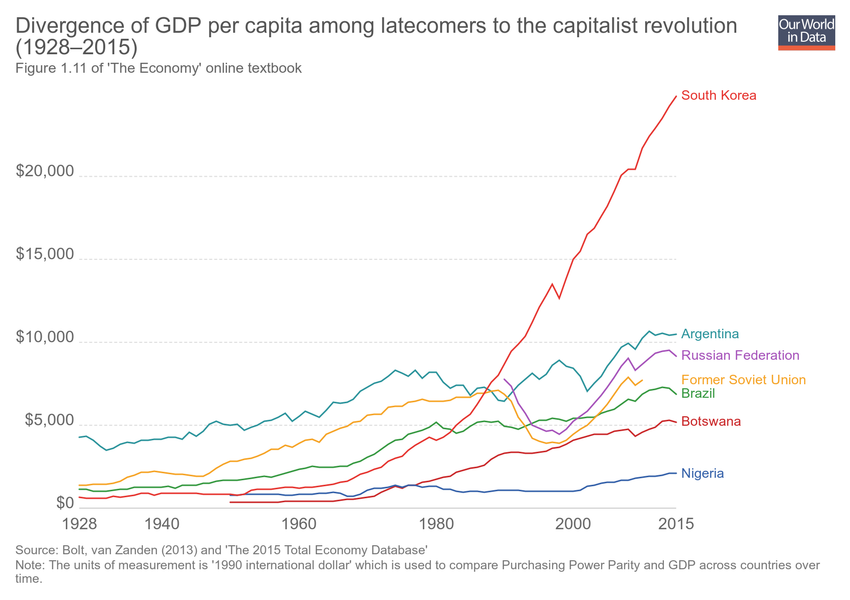
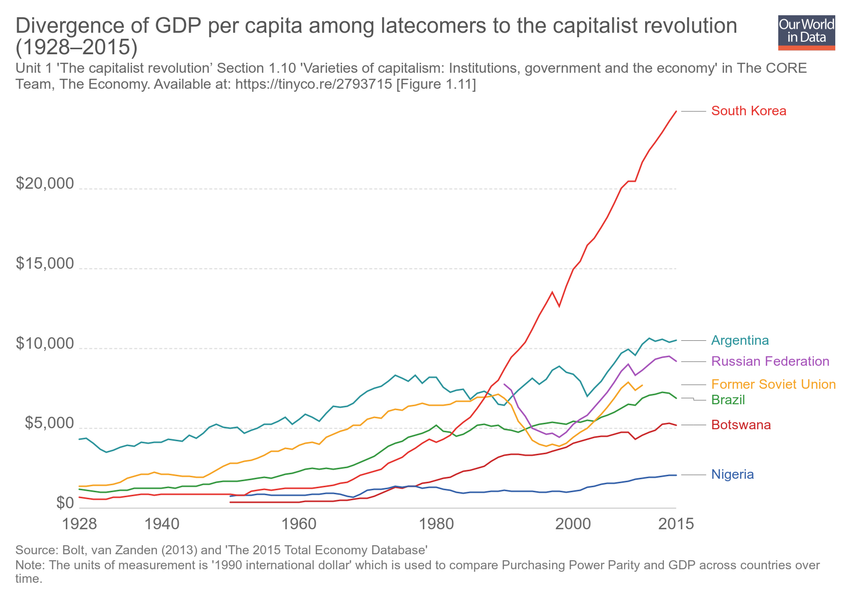
Updating chart divergence-of-gdp-per-capita-among-latecomers-to-the-capitalist-revolution-19282015

diff --git a/grapher/divergence-of-gdp-per-capita-among-latecomers-to-the-capitalist-revolution-19282015.html b/grapher/divergence-of-gdp-per-capita-among-latecomers-to-the-capitalist-revolution-19282015.html
@@ -1,4 +1,4 @@
-<!doctype html><html><head><meta name="viewport" content="width=device-width, initial-scale=1" /><title>Divergence of GDP per capita among latecomers to the capitalist revolution (1928–2015) - Our World in Data</title><meta name="description" content="Figure 1.11 of 'The Economy' online textbook" /><link rel="canonical" href="https://ourworldindata.org/grapher/divergence-of-gdp-per-capita-among-latecomers-to-the-capitalist-revolution-19282015" /><meta property="fb:app_id" content="1149943818390250" /><meta property="og:url" content="https://ourworldindata.org/grapher/divergence-of-gdp-per-capita-among-latecomers-to-the-capitalist-revolution-19282015" /><meta property="og:title" content="Divergence of GDP per capita among latecomers to the capitalist revolution (1928–2015)" /><meta property="og:description" content="Figure 1.11 of 'The Economy' online textbook" /><meta property="og:image" content="https://ourworldindata.org/grapher/exports/divergence-of-gdp-per-capita-among-latecomers-to-the-capitalist-revolution-19282015.png?v=6" /><meta property="og:image:width" content="850" /><meta property="og:image:height" content="600" /><meta property="og:site_name" content="Our World in Data" /><meta name="twitter:card" content="summary_large_image" /><meta name="twitter:site" content="@OurWorldInData" /><meta name="twitter:creator" content="@OurWorldInData" /><meta name="twitter:title" content="Divergence of GDP per capita among latecomers to the capitalist revolution (1928–2015)" /><meta name="twitter:description" content="Figure 1.11 of 'The Economy' online textbook" /><meta name="twitter:image" content="https://ourworldindata.org/grapher/exports/divergence-of-gdp-per-capita-among-latecomers-to-the-capitalist-revolution-19282015.png?v=6" /><style>
+<!doctype html><html><head><meta name="viewport" content="width=device-width, initial-scale=1" /><title>Divergence of GDP per capita among latecomers to the capitalist revolution (1928–2015) - Our World in Data</title><meta name="description" content="Unit 1 'The capitalist revolution’ Section 1.10 'Varieties of capitalism: Institutions, government and the economy' in The CORE Team, The Economy. Available at: https://tinyco.re/2793715 [Figure 1.11]" /><link rel="canonical" href="https://ourworldindata.org/grapher/divergence-of-gdp-per-capita-among-latecomers-to-the-capitalist-revolution-19282015" /><meta property="fb:app_id" content="1149943818390250" /><meta property="og:url" content="https://ourworldindata.org/grapher/divergence-of-gdp-per-capita-among-latecomers-to-the-capitalist-revolution-19282015" /><meta property="og:title" content="Divergence of GDP per capita among latecomers to the capitalist revolution (1928–2015)" /><meta property="og:description" content="Unit 1 'The capitalist revolution’ Section 1.10 'Varieties of capitalism: Institutions, government and the economy' in The CORE Team, The Economy. Available at: https://tinyco.re/2793715 [Figure 1.11]" /><meta property="og:image" content="https://ourworldindata.org/grapher/exports/divergence-of-gdp-per-capita-among-latecomers-to-the-capitalist-revolution-19282015.png?v=7" /><meta property="og:image:width" content="850" /><meta property="og:image:height" content="600" /><meta property="og:site_name" content="Our World in Data" /><meta name="twitter:card" content="summary_large_image" /><meta name="twitter:site" content="@OurWorldInData" /><meta name="twitter:creator" content="@OurWorldInData" /><meta name="twitter:title" content="Divergence of GDP per capita among latecomers to the capitalist revolution (1928–2015)" /><meta name="twitter:description" content="Unit 1 'The capitalist revolution’ Section 1.10 'Varieties of capitalism: Institutions, government and the economy' in The CORE Team, The Economy. Available at: https://tinyco.re/2793715 [Figure 1.11]" /><meta name="twitter:image" content="https://ourworldindata.org/grapher/exports/divergence-of-gdp-per-capita-among-latecomers-to-the-capitalist-revolution-19282015.png?v=7" /><style>
         html, body {
             height: 100%;
             margin: 0;
@@ -20,8 +20,8 @@
         }
     </style><noscript><style>
                     figure { display: none !important; }
-                </style></noscript><link rel="stylesheet" href="https://ourworldindata.org/grapher/assets/commons.bundle.397229a8467cf53bfc99.css" /><link rel="preload" href="/grapher/data/variables/97955.json?v=6" as="fetch" crossorigin /></head><body class="singleChart"><figure data-grapher-src="/grapher/divergence-of-gdp-per-capita-among-latecomers-to-the-capitalist-revolution-19282015"></figure><noscript id="fallback"><img src="/grapher/exports/divergence-of-gdp-per-capita-among-latecomers-to-the-capitalist-revolution-19282015.svg" /><p>Interactive visualization requires JavaScript</p></noscript><script src="https://cdn.polyfill.io/v2/polyfill.min.js?features=es6,fetch"></script><script src="https://ourworldindata.org/grapher/assets/commons.bundle.397229a8467cf53bfc99.js"></script><script src="https://ourworldindata.org/grapher/assets/charts.bundle.397229a8467cf53bfc99.js"></script><script>
-        var jsonConfig = {"id":3018,"map":{"projection":"World","targetYear":2015,"variableId":97955,"colorSchemeLabels":[],"colorSchemeValues":[],"customNumericColors":[],"customCategoryColors":{},"customCategoryLabels":{},"customHiddenCategories":{}},"tab":"chart","note":"The units of measurement is '1990 international dollar' which is used to compare Purchasing Power Parity and GDP across countries over time.","slug":"divergence-of-gdp-per-capita-among-latecomers-to-the-capitalist-revolution-19282015","type":"LineChart","title":"Divergence of GDP per capita among latecomers to the capitalist revolution (1928–2015)","xAxis":{"scaleType":"linear"},"yAxis":{"min":0,"scaleType":"linear"},"version":6,"subtitle":"Figure 1.11 of 'The Economy' online textbook","hasMapTab":true,"stackMode":"absolute","dimensions":[{"display":{},"property":"y","variableId":97955}],"hasChartTab":true,"isPublished":true,"selectedData":[{"index":0,"entityId":21},{"index":0,"entityId":36},{"index":0,"entityId":37},{"index":0,"entityId":3911},{"index":0,"entityId":103},{"index":0,"entityId":38099},{"index":0,"entityId":127}],"internalNotes":"core-econ.org","addCountryMode":"add-country"};
+                </style></noscript><link rel="stylesheet" href="https://ourworldindata.org/grapher/assets/commons.bundle.397229a8467cf53bfc99.css" /><link rel="preload" href="/grapher/data/variables/97955.json?v=7" as="fetch" crossorigin /></head><body class="singleChart"><figure data-grapher-src="/grapher/divergence-of-gdp-per-capita-among-latecomers-to-the-capitalist-revolution-19282015"></figure><noscript id="fallback"><img src="/grapher/exports/divergence-of-gdp-per-capita-among-latecomers-to-the-capitalist-revolution-19282015.svg" /><p>Interactive visualization requires JavaScript</p></noscript><script src="https://cdn.polyfill.io/v2/polyfill.min.js?features=es6,fetch"></script><script src="https://ourworldindata.org/grapher/assets/commons.bundle.397229a8467cf53bfc99.js"></script><script src="https://ourworldindata.org/grapher/assets/charts.bundle.397229a8467cf53bfc99.js"></script><script>
+        var jsonConfig = {"id":3018,"map":{"projection":"World","targetYear":2015,"variableId":97955,"colorSchemeLabels":[],"colorSchemeValues":[],"customNumericColors":[],"customCategoryColors":{},"customCategoryLabels":{},"customHiddenCategories":{}},"tab":"chart","note":"The units of measurement is '1990 international dollar' which is used to compare Purchasing Power Parity and GDP across countries over time.","slug":"divergence-of-gdp-per-capita-among-latecomers-to-the-capitalist-revolution-19282015","type":"LineChart","title":"Divergence of GDP per capita among latecomers to the capitalist revolution (1928–2015)","xAxis":{"scaleType":"linear"},"yAxis":{"min":0,"scaleType":"linear","canChangeScaleType":true},"version":7,"subtitle":"Unit 1 'The capitalist revolution’ Section 1.10 'Varieties of capitalism: Institutions, government and the economy' in The CORE Team, The Economy. Available at: https://tinyco.re/2793715 [Figure 1.11]","hasMapTab":true,"stackMode":"absolute","dimensions":[{"display":{},"property":"y","variableId":97955}],"hasChartTab":true,"isPublished":true,"selectedData":[{"index":0,"entityId":21},{"index":0,"entityId":36},{"index":0,"entityId":37},{"index":0,"entityId":3911},{"index":0,"entityId":103},{"index":0,"entityId":38099},{"index":0,"entityId":127}],"internalNotes":"core-econ.org","addCountryMode":"add-country"};
         var figure = document.getElementsByTagName("figure")[0];
         try {
             window.App = {};
